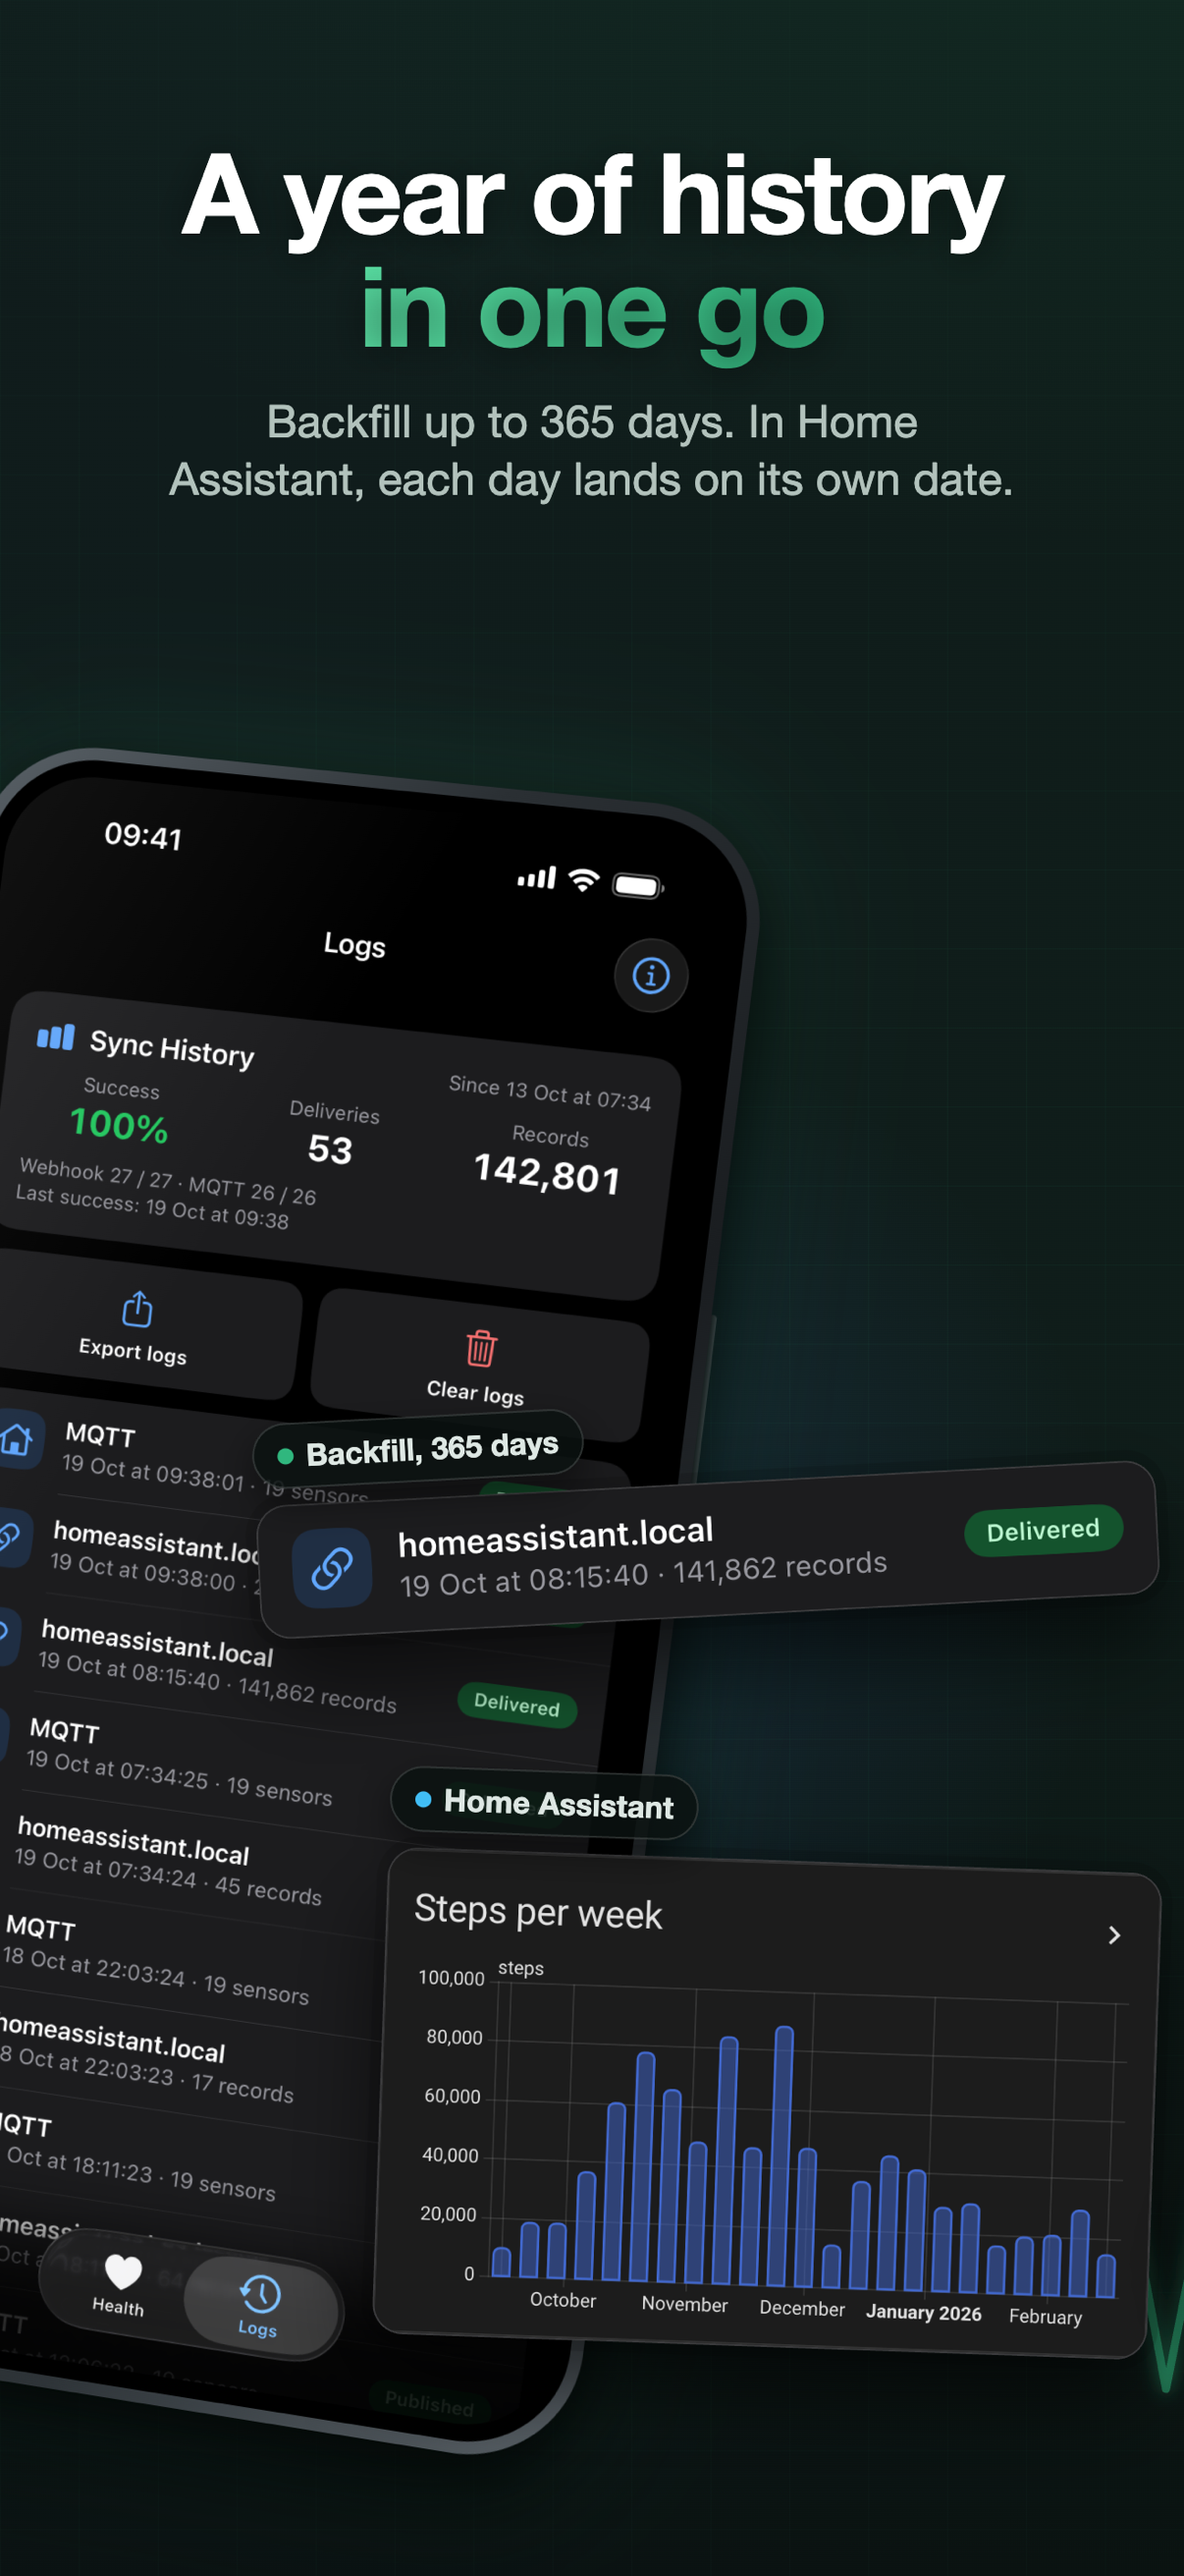
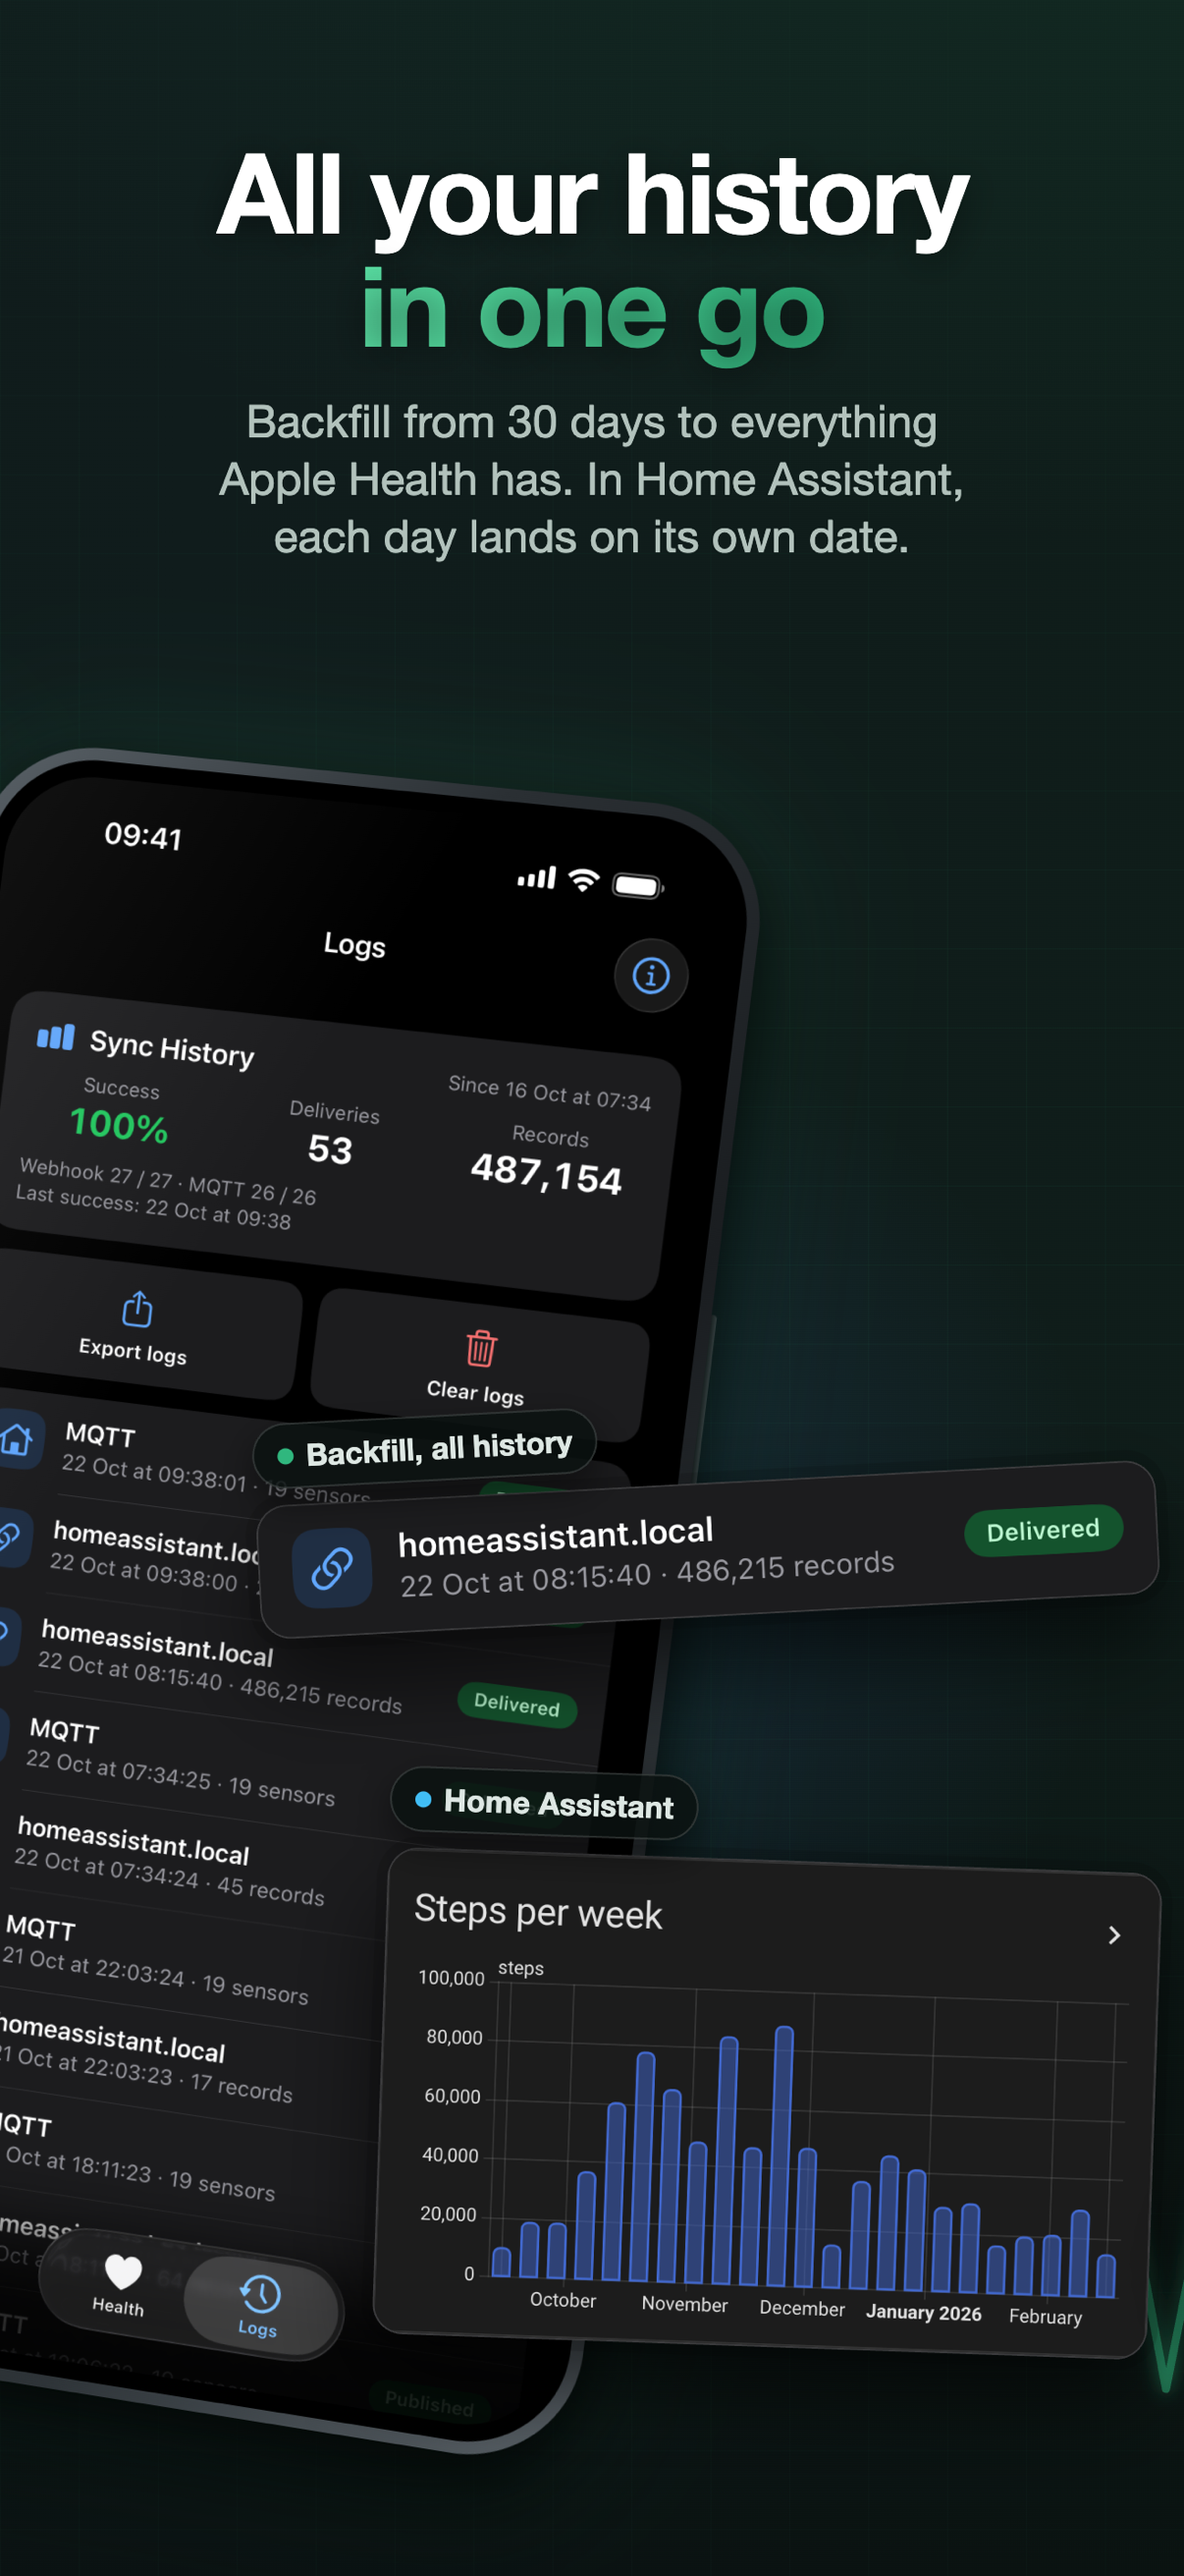
Store screenshots for 1.10.0: all-history backfill and per-address secrets
Panel 3 now shows a backfill of all history instead of a year, panel 4 the
webhook row as it looks in 1.10.0. The capture script signs the build ad hoc
and resets the simulator Keychain, so the example secret shows.

diff --git a/docs/brand/app-store/panorama.html b/docs/brand/app-store/panorama.html
@@ -232,18 +232,18 @@ items.push(phone(RAW + "setup-destination.png", 1690, 830, 860, tilt(4, -12)));
 items.push(float(crop(HA + "pairing.png", 1160, [62, 54, 586, 586], 540),
   1390, 1560, { label: "Home Assistant", rotate: -6, pad: 26, bg: "#1C1C1C" }));
 
-// 3. A year of history
-items.push(caption(3, `A year of history<br><em>in one go</em>`,
-  `Backfill up to 365 days. In Home Assistant, each day lands on its own date.`));
+// 3. All your history
+items.push(caption(3, `All your history<br><em>in one go</em>`,
+  `Backfill from 30 days to everything Apple Health has. In Home Assistant, each day lands on its own date.`));
 items.push(phone(RAW + "logs.png", 2530, 860, 880, tilt(7, -6), 3));
 items.push(float(crop(RAW + "logs.png", 1320, LOGROW_BACKFILL, 1000),
-  2925, 1560, { label: "Backfill, 365 days", dot: "#30B77E", rotate: -3, z: 6 }));
+  2925, 1560, { label: "Backfill, all history", dot: "#30B77E", rotate: -3, z: 6 }));
 items.push(float(crop(HA + "statistics.png", 2048, [33, 8, 982, 614], 860),
   3065, 1980, { label: "Home Assistant", rotate: 2 }));
 
 // 4. Webhooks and MQTT
 items.push(caption(4, `Webhooks, signed.<br><em>MQTT, built in.</em>`,
-  `HMAC-SHA256 on every webhook request. Over MQTT, sensors set themselves up.`));
+  `Every address its own signing secret. Over MQTT, sensors set themselves up.`));
 items.push(phone(RAW + "webhook.png", 4250, 830, 900, tilt(-5, 10)));
 items.push(`<div class="badge" style="left:4800px;top:1530px;transform:rotate(-4deg);z-index:6">${shield}<div><b>Signed</b><small>HMAC-SHA256</small></div></div>`);
 items.push(float(crop(RAW + "logs.png", 1320, LOGROW_MQTT, 980),
